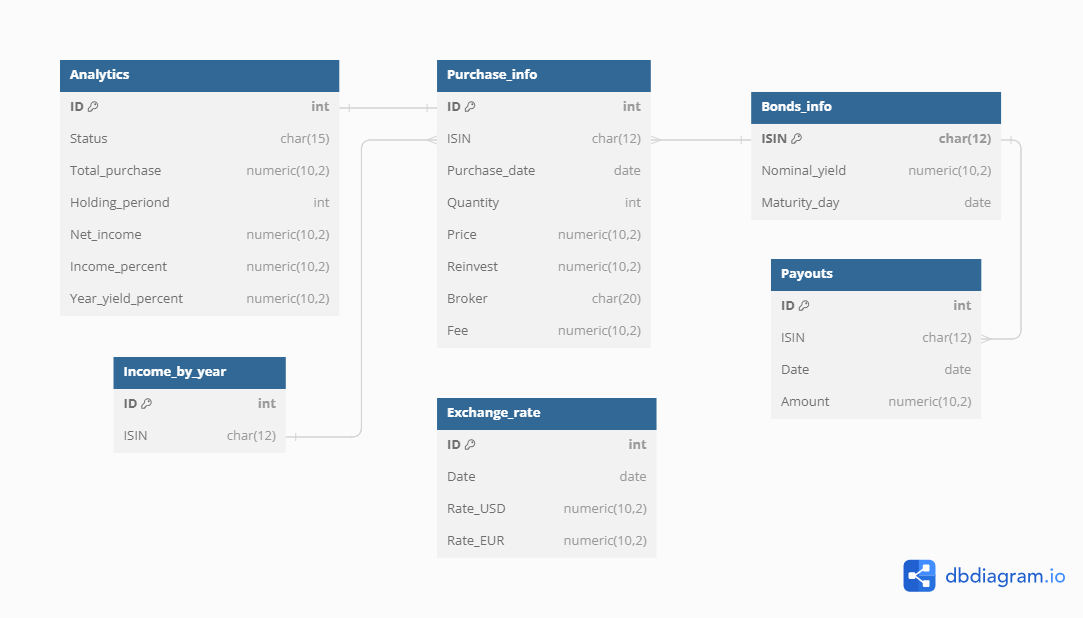
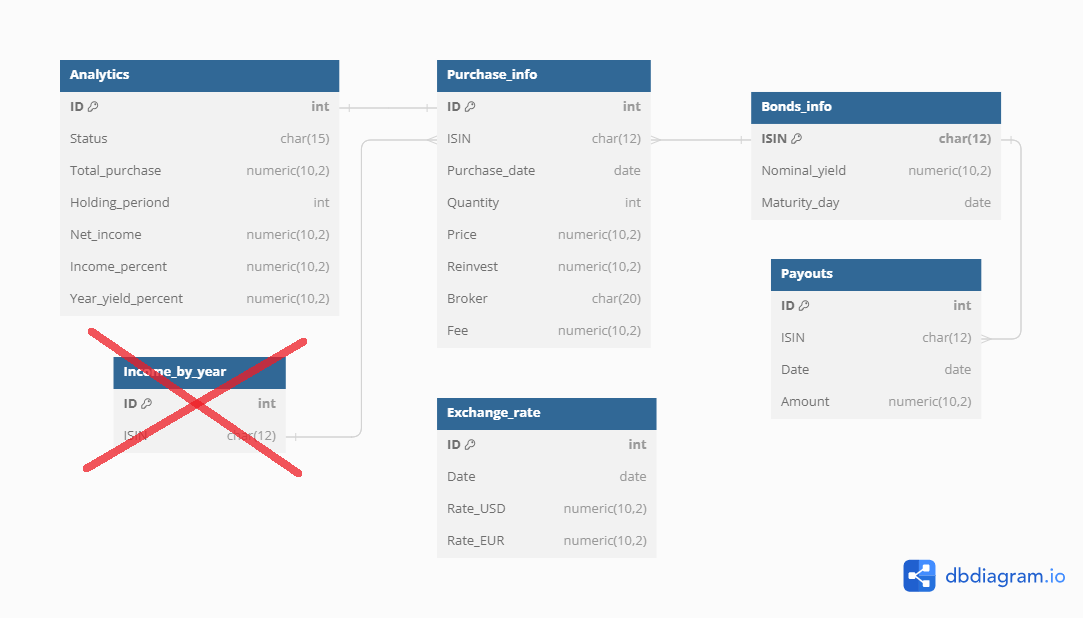
Delete Income_by_year table. Create class argument for storing new purchase data.

diff --git a/db_manager.py b/db_manager.py
@@ -39,15 +39,14 @@ class DatabaseManager:
 
     def __init__(self, db_name='bonds_ua.db') -> None:
         self.db_name = db_name
-        try:
-            self.conn = sqlite3.connect(self.db_name)
-            print(f"Connected to existing database '{self.db_name}'.")
-        except sqlite3.Error:
+        self.current_data = None
+        if not os.path.isfile(db_name):
             self.create_tables()
-            self.conn = sqlite3.connect(self.db_name)
             print("Database created and connected.")
+        else:
+            print(f"Connected to existing database '{self.db_name}'.")
+        self.conn = sqlite3.connect(self.db_name)
         self.cursor = self.conn.cursor()
-
 
     def create_tables(self):
         """Create database and tables."""
@@ -114,61 +113,63 @@ class DatabaseManager:
         
     def add_purchase_row(self, new):
         """Insert new purchase and start filling cascade."""
+        self.current_data = new
         # Insert new purchase entering data 
         query = "insert into Purchase_info (ISIN, Purchase_date, Quantity, Price, Reinvest, Broker, Fee) values (?, ?, ?, ?, ?, ?, ?);"
-        isin = new['ISIN']
-        self.cursor.execute(query, list(new.values()))
+        #isin = new['ISIN']
+        self.cursor.execute(query, tuple(self.current_data.values()))
         self.conn.commit()
-        print(f"New purchase from {new['Purchase_date']} added to DataBase!")
+        print(f"New purchase from {self.current_data['Purchase_date']} added to DataBase!")
         # Step 1: filling Bonds_info and Payouts if ISIN is new. 
-        if not self.bond_data_exists(isin):
-            bonds_info, payments = get_bond_data(new)
+        if not self.bond_data_exists():
+            bonds_info, payments = get_bond_data(self.current_data)
             self.add_bond_info(bonds_info)
-            self.add_payouts(code=isin, payouts_data=payments)
+            self.add_payouts(payouts_data=payments)
         else:
-            print(f"Bond {isin} information is already in DataBase.")
+            print(f"Bond {self.current_data['ISIN']} information is already in DataBase.")
         # Step 2: filling Analitycs
-        self.add_analytics(new)
+        self.add_analytics()
         # Step 3: filling Income_by_year
+
         # Step 4: filling Exchange_rate
         
 
-    def bond_data_exists(self, code) -> bool:
+    def bond_data_exists(self) -> bool:
         # Return True if bonds data exists in db
         query = "select * from Bonds_info where ISIN = ?;"
-        self.cursor.execute(query, (code,))
+        self.cursor.execute(query, (self.current_data['ISIN'],))
         result = self.cursor.fetchone()
         return True if result else False
     
     def add_bond_info(self, data):
         query = "insert into Bonds_info (ISIN, Nominal_yield, Maturity_date) values (?, ?, ?);"
-        self.cursor.execute(query, list(data.values()))
+        self.cursor.execute(query, tuple(data.values()))
         self.conn.commit()
         print(f"Bond {data['ISIN']} information added.")
 
-    def add_payouts(self, code, payouts_data):
+    def add_payouts(self, payouts_data):
         for date, amount in payouts_data.items():
             query = "insert into Payouts (ISIN, Date, Amount) values (?, ?, ?);"
-            self.cursor.execute(query, (code, date, amount))
+            self.cursor.execute(query, (self.current_data['ISIN'], date, amount))
         self.conn.commit()
-        print(f"Added {code} payouts.")
+        print(f"Added {self.current_data['ISIN']} payouts.")
 
-    def add_analytics(self, purchase):
+    def add_analytics(self):
         # Count total amount of purchase
-        total = round(purchase['Price'] * purchase['Quantity'], 2)
+        total = round(self.current_data['Price'] * self.current_data['Quantity'], 2)
         # Get maturity date from db for calculation holding period
         query = "select Maturity_date from Bonds_info where ISIN = ?;"
-        self.cursor.execute(query, (purchase['ISIN'],))
+        self.cursor.execute(query, (self.current_data['ISIN'],))
         end = self.cursor.fetchone()[0]
-        start = purchase['Purchase_date']
+        start = self.current_data['Purchase_date']
         period = (datetime.strptime(end, "%Y-%m-%d").date() - start).days
         # Get summ of all payouts fot current purchase
         query = "select sum(Amount) from Payouts where ISIN = ? and Date > ?;"
-        self.cursor.execute(query, (purchase['ISIN'], purchase['Purchase_date']))
+        self.cursor.execute(query, (self.current_data['ISIN'], self.current_data['Purchase_date']))
         payouts = self.cursor.fetchone()[0]
         payouts = float(payouts) if payouts is not None else 0
         # Calculating net income
-        net_income = round(purchase['Quantity'] * (1000 + payouts) - total, 2)
+        net_income = round(self.current_data['Quantity'] * (1000 + payouts) - total, 2)
         # Now can calculate income % and year yield in %
         income_percent = round(net_income/total * 100, 2)
         year_yield = round(income_percent*365/period, 2)
@@ -177,18 +178,33 @@ class DatabaseManager:
         self.cursor.execute(query, (total, period, net_income, income_percent, year_yield))
         self.check_status()
         self.conn.commit()
-        print(f"Add row for purchase from {purchase['Purchase_date']}.")
+        print(f"Add row for purchase from {self.current_data['Purchase_date']}.")
 
     def check_status(self):
         query = """
         update Analytics 
-        set Analytics.Status = 'Paid of' 
+        set Status = 'Paid off' 
         where exists (
             select 1
             from Bonds_info
-            where Analytics.ISIN = Bonds_info.ISIN
-            and date(now) >= Bonds_info.Maturity_date;"""
+            join Purchase_info on Bonds_info.ISIN = Purchase_info.ISIN
+            where Analytics.ID = Purchase_info.ID
+            and date('now') >= Bonds_info.Maturity_date
+            );"""
         self.cursor.execute(query)
+        self.conn.commit()
+
+    def add_income(self):
+
+        query = """
+        select sum(Amount) 
+        from Payouts 
+            join Purchase_info on Payouts.ISIN = Purchase_info.ISIN 
+        where Payouts.ISIN = ? 
+            and Payouts.Date > Purchase_info.Purchase_date 
+            and strftime('%Y', Date) = ?;
+        """
+        self.cursor.execute()
 
 
     def close_connection(self):
